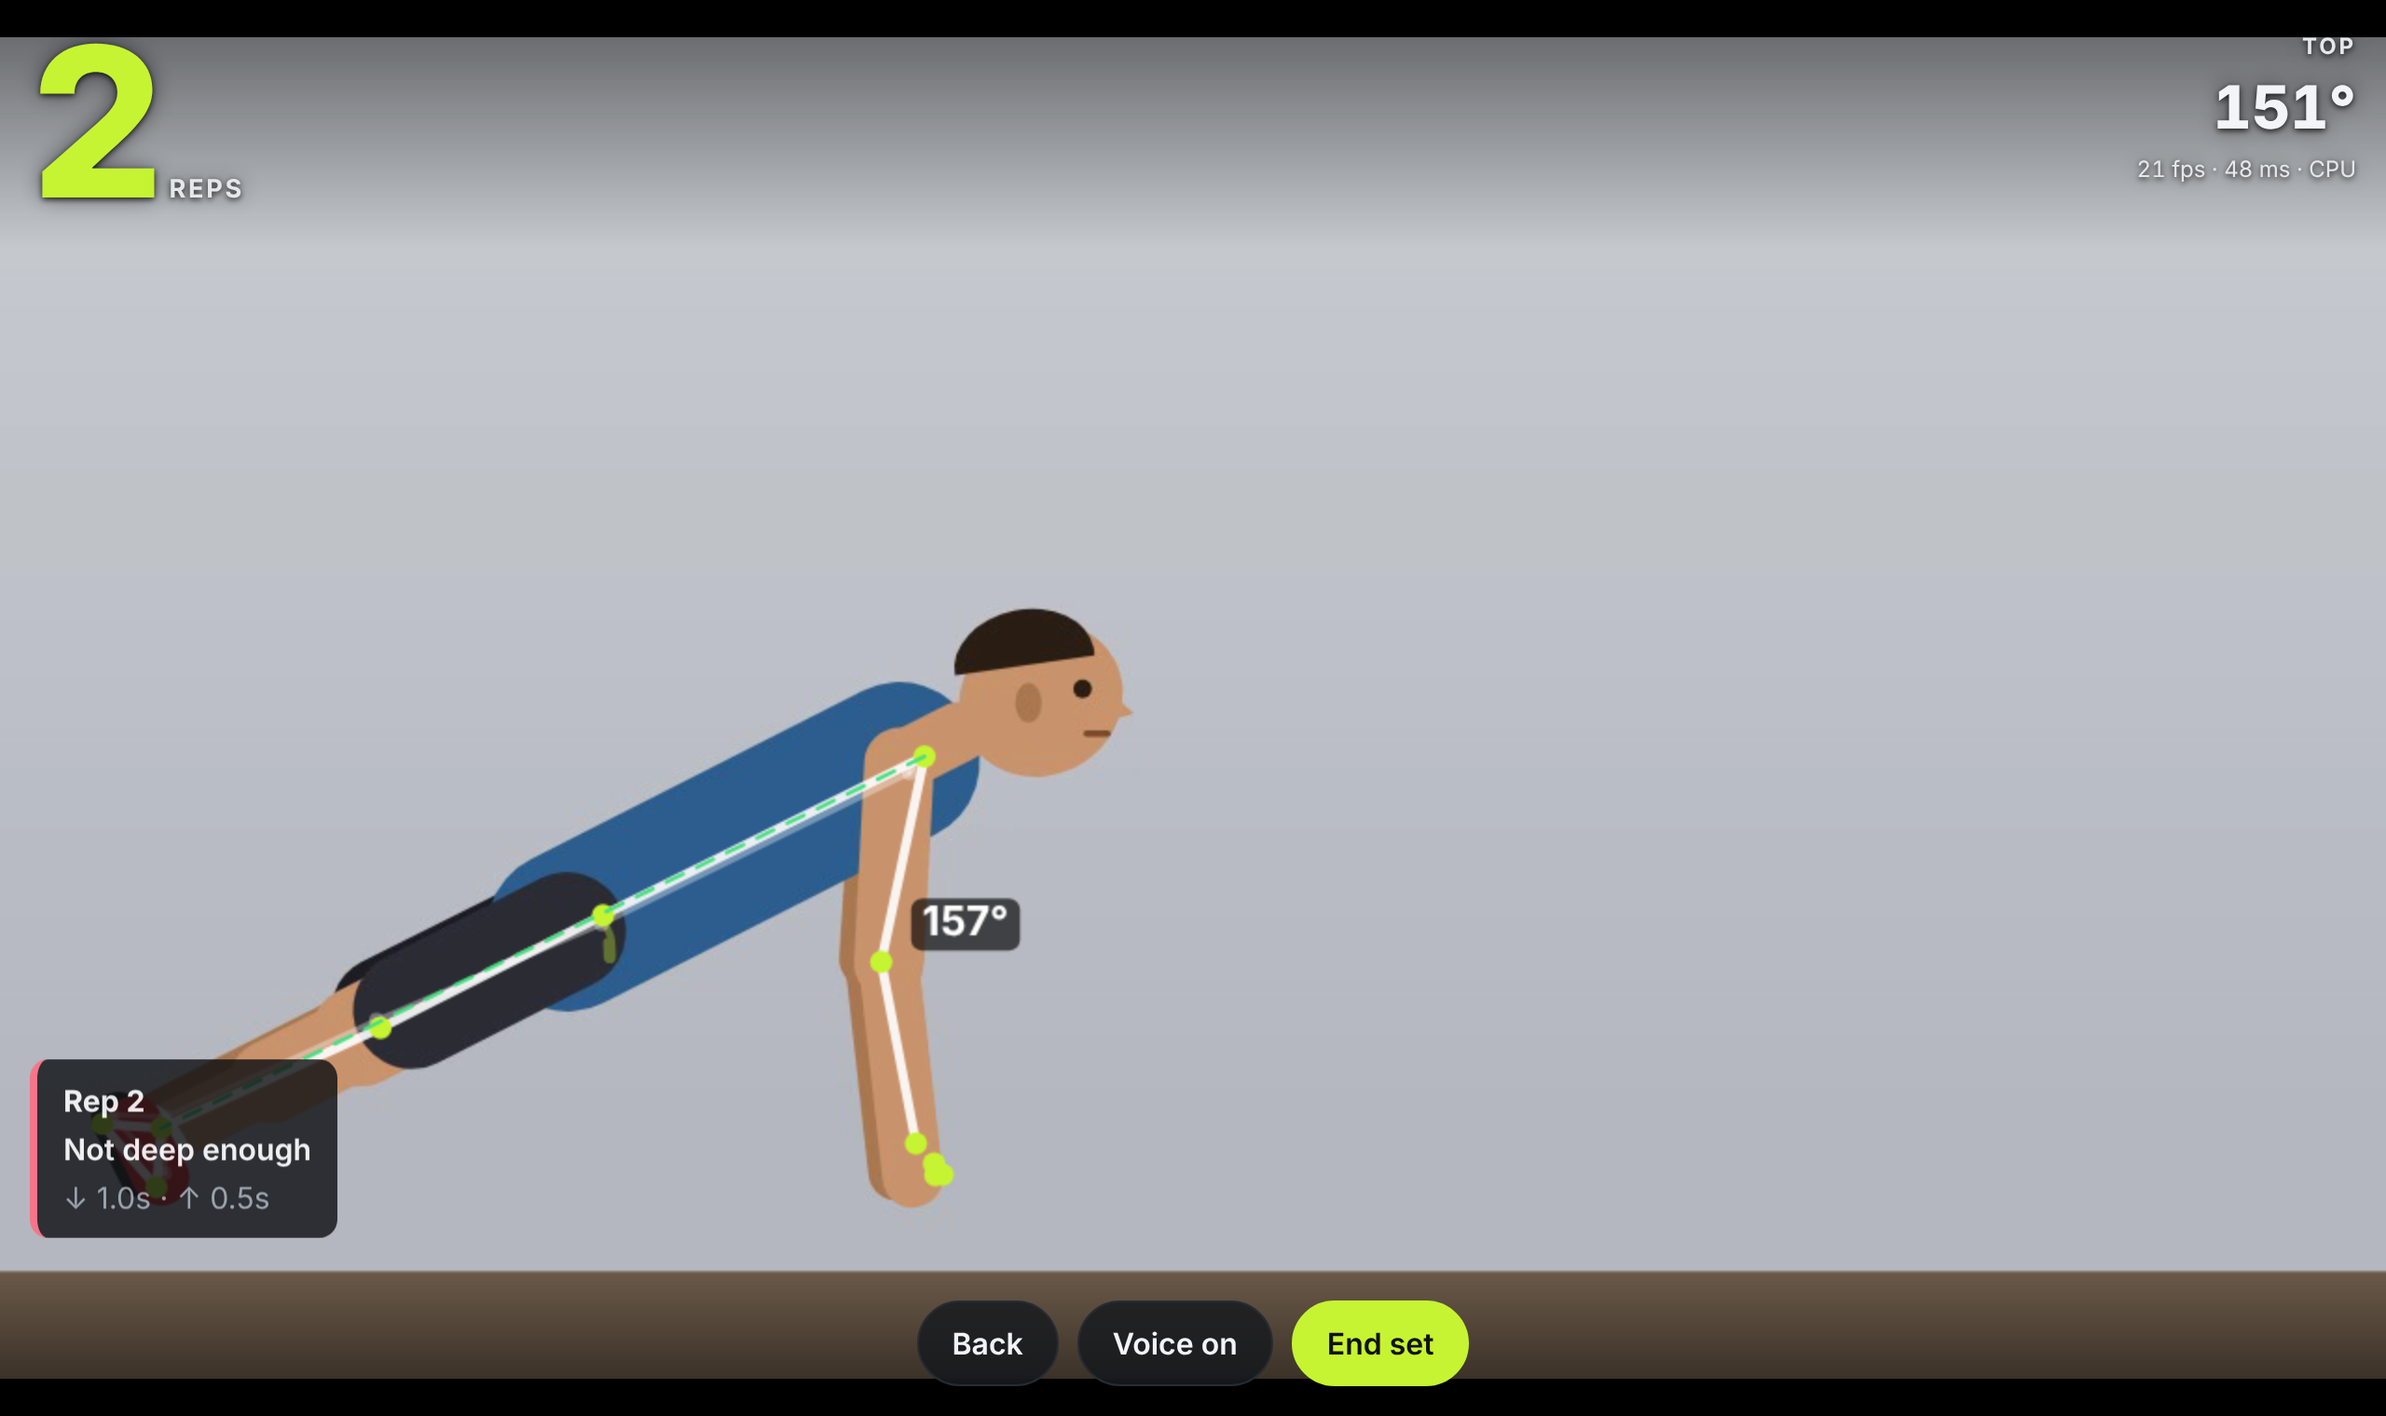
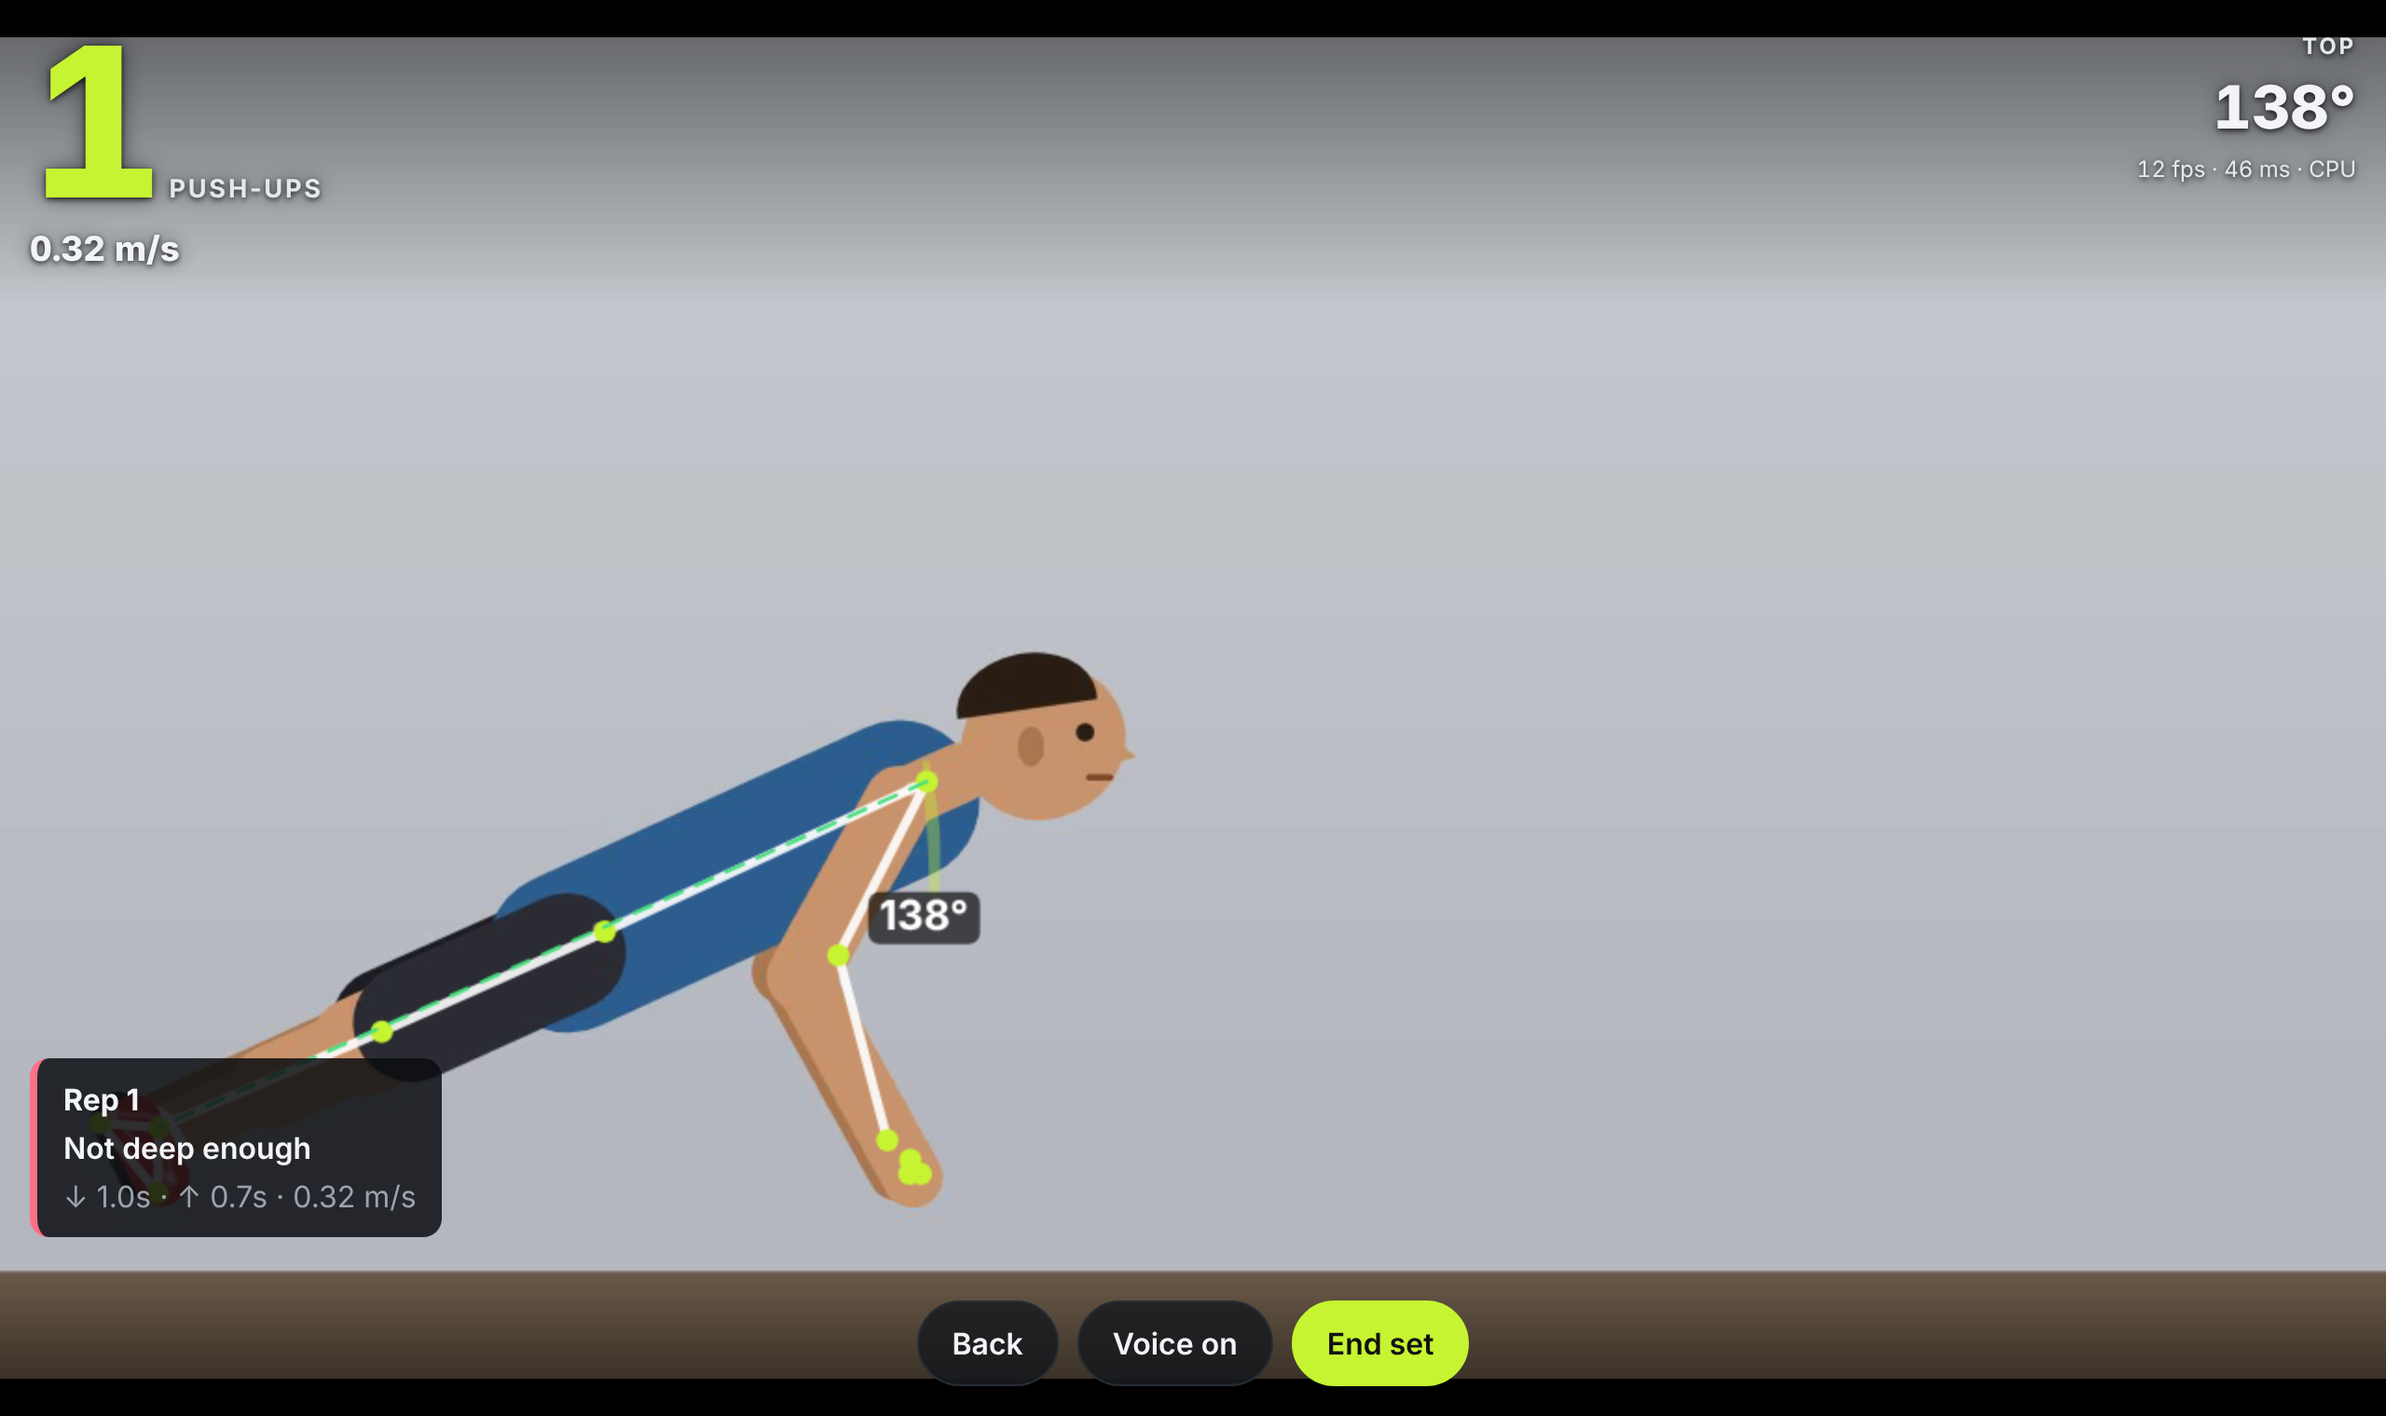
README for v2, fresh screenshots, one-row exercise picker
Claude-Session: https://claude.ai/code/session_01U8Af43sU8umgs554NrshuK

diff --git a/web/src/styles.css b/web/src/styles.css
@@ -32,7 +32,7 @@ h1 { font-size: clamp(2rem, 6vw, 3rem); line-height: 1.05; letter-spacing: -0.03
 .card { background: var(--panel); border: 1px solid var(--line); border-radius: 18px; padding: 20px; margin-top: 28px; }
 .field-label { font-size: 0.8rem; text-transform: uppercase; letter-spacing: 0.08em; color: var(--muted); }
 .seg { display: grid; grid-template-columns: 1fr 1fr; gap: 6px; margin-top: 8px; background: var(--bg); padding: 5px; border-radius: 14px; }
-.seg button { border: 0; background: transparent; padding: 12px; border-radius: 10px; font-weight: 700; cursor: pointer; color: var(--muted); }
+.seg button { white-space: nowrap; border: 0; background: transparent; padding: 12px 6px; border-radius: 10px; font-weight: 700; cursor: pointer; color: var(--muted); }
 .seg button.on { background: var(--accent); color: #111; }
 .tip { color: var(--muted); font-size: 0.92rem; margin: 12px 0 4px; }
 .row { display: flex; flex-wrap: wrap; gap: 14px 24px; margin-top: 14px; }
@@ -79,7 +79,9 @@ tr.bad td:last-child { color: var(--bad); }
 /* v2: exercise picker, history, share, coach */
 .top-row { display: flex; align-items: center; justify-content: space-between; gap: 12px; }
 .small-btn { padding: 7px 14px; font-size: 0.9rem; }
-.seg-grid { grid-template-columns: repeat(auto-fit, minmax(92px, 1fr)); }
+.seg-grid { grid-template-columns: repeat(4, 1fr); }
+@media (min-width: 640px) { .seg-grid { grid-template-columns: repeat(7, 1fr); } }
+.history .seg-grid { grid-template-columns: repeat(auto-fit, minmax(110px, 1fr)); }
 .live-dot { display: inline-block; width: 8px; height: 8px; border-radius: 50%; background: var(--bad); margin-left: 6px; animation: pulse 1.2s infinite; }
 @keyframes pulse { 50% { opacity: 0.3; } }
 .speed { font-weight: 800; font-size: 1.15rem; font-variant-numeric: tabular-nums; margin-top: 4px; }

diff --git a/README.md b/README.md
@@ -1,12 +1,20 @@
-# Spotter — a real-time form coach that runs on your phone
+# Spotter — a real-time AI form coach that runs on your phone
 
-Prop your phone up side-on, lift, and Spotter:
+**[Try it live ↗](https://spotter-gray.vercel.app)** · prop your phone up, lift, and Spotter:
 
-- 🔢 **counts your reps** live and times each one (seconds down / seconds up)
-- ✅ **checks every rep**: squat depth (hip below knee), lockout and torso lean; push-up depth and hips sagging or piking
-- 📈 **traces your bar path** (or hip path) over the video
-- 🔊 **calls out a fix** the moment a rep finishes ("Deeper", "Squeeze your glutes"), or just says the count when the rep is clean
-- 📝 **sums up the set**: which reps were flagged, the shallowest rep against your typical one, and whether you slowed down
+- 🧠 **recognises the exercise** from your first rep: squat, push-up, deadlift, lunge, overhead press or plank
+- 🔢 **counts reps** and times each one (seconds down / seconds up), or times your plank while your body stays straight
+- ✅ **checks every rep**:
+  - squat: depth, lockout, forward lean, and **knees caving in** (filmed from the front)
+  - deadlift: **hips rising before the chest**
+  - press: incomplete lockout and leaning back
+  - push-up and plank: hips sagging or piking
+- ⚡ **measures bar speed** in m/s from the camera alone. When speed drops 20%, it says *"Speed down 22%. About 2 left"*
+- 🔊 **calls out the fix** the moment a rep ends ("Deeper", "Knees out"), or just the count when the rep is clean
+- 🎬 **makes a highlight clip** of the set to share: your reps, a slow-motion freeze-frame of the rep worth a second look, and your stats
+- 📈 **keeps your history** on the device: personal bests, a 14-day chart, and an **estimated 1-rep max** from your bar speed at different weights
+- 🗣 **listens for voice commands** ("end set", "next set", "mute"), so you never touch the phone with chalky hands
+- 🤖 **writes an AI coach note** from the set's numbers (never the video) with Gemini
 
 Pose tracking runs **in the browser on your device** (MediaPipe on the GPU, ~30 FPS on a recent phone). The video is never uploaded.
 
@@ -15,8 +23,8 @@ Pose tracking runs **in the browser on your device** (MediaPipe on the GPU, ~30 
 </p>
 
 <p align="center">
-  <img src="docs/images/setup.png" alt="Setup screen" width="405"/>
-  <img src="docs/images/summary.png" alt="Set summary with per-rep table" width="405"/>
+  <img src="docs/images/summary.png" alt="Set summary: notes, bar speed chart, per-rep table and the share clip" width="405"/>
+  <img src="docs/images/history.png" alt="History: 14-day chart, personal bests and recent sets" width="405"/>
 </p>
 
 > The screenshots use a **drawn test mannequin**, not a real person: it is how CI tests the full pipeline without footage of anyone (see [Testing](#testing)).
@@ -24,28 +32,37 @@ Pose tracking runs **in the browser on your device** (MediaPipe on the GPU, ~30 
 ## How it works
 
 ```
-camera frame ─► MediaPipe Pose Landmarker (GPU, WASM) ─► One Euro smoothing ─► joint angles, hip vs knee
-                                                                                    │
-                         rep state machine: waiting → top → down → up → top ◄───────┘
-                                    │ on each finished rep
-                   depth / lockout / lean / hip checks · tempo · path drift
-                                    │
-                 overlay + spoken cue (same frame) ─► set summary when you stop
+camera frame ─► MediaPipe Pose Landmarker (GPU, WASM) ─► One Euro smoothing ─► side / front view
+                                                                                   │
+           Auto: recognise the exercise from the first full rep, replay buffered frames ◄──┘
+                                   │
+     rep state machine on the exercise's main angle: waiting → top → down → up → top
+                                   │ on each finished rep
+   form checks · tempo · bar path · bar speed (m/s) · speed loss · "stop" cue · reps-left estimate
+                                   │
+     overlay + spoken cue (same frame) · on-device recording ─► summary, highlight clip, history
 ```
 
-- **Pose:** [MediaPipe Pose Landmarker](https://ai.google.dev/edge/mediapipe/solutions/vision/pose_landmarker) (BlazePose, 33 landmarks), Lite or Full model, GPU delegate with a CPU fallback. The WASM runtime and models are served by the app itself and cached for offline use (PWA).
-- **Smoothing:** a [One Euro filter](https://gery.casiez.net/1euro/) per coordinate: steady when you are still, little lag when you move.
-- **Side choice:** uses the side of the body facing the camera, by landmark visibility, and only switches when the other side is clearly better.
-- **Rep counting:** a state machine on the main joint angle (knee for squats, elbow for push-ups) with hysteresis, so small dips and bounces at the bottom are not counted as reps.
-- **Form checks** (`web/src/core/exercises.ts`):
-  - Squat depth: hip lower than the knee at the deepest point, measured relative to thigh length.
-  - Lockout: the joint gets back to near-straight before the next rep, so this flag lands when the next rep starts.
-  - Squat torso lean: more than 60° from vertical.
-  - Push-ups: elbow angle at the bottom, and the hip's distance above or below the shoulder-to-ankle line.
-- **Centimetres:** estimated from your height and your measured leg length (thigh + shin ≈ 49% of height).
-- **Voice:** the browser's built-in speech, so cues have no network delay.
+- **Pose:** [MediaPipe Pose Landmarker](https://ai.google.dev/edge/mediapipe/solutions/vision/pose_landmarker) (BlazePose, 33 landmarks), Lite or Full model, GPU delegate with a CPU fallback. It's served by the app and cached for offline use (PWA).
+- **Views:** the analyzer detects a front or side view from shoulder width against torso length. From the front, knee angles can't be read, so squat depth comes from how much the thigh shortens on screen, and the knee-to-ankle width ratio catches knees caving in.
+- **Rep counting:** a state machine with hysteresis on each exercise's main angle. The press is counted from the bottom (180° − elbow), and small dips and bounces don't count as reps.
+- **Bar speed:** vertical travel of the tracked point (bar, hips or shoulders) over the lifting half of each rep. Pixels are turned into metres from your height and measured leg length (thigh + shin ≈ 49% of height). Reps left = a straight-line fit of the last reps' speeds, extended down to the slowest speed a rep usually succeeds at (e.g. 0.3 m/s for squats).
+- **1-rep max:** a load–velocity line through your sets at different bar weights, read off at that slowest speed.
+- **Highlight clip:** the set is recorded on-device (canvas + MediaRecorder). The clip plays the recording once from start to end, slowing down for the chosen rep and freezing at its bottom. It never seeks, because browser-made WebM files often can't seek reliably.
+- **AI coach:** `api/coach.ts` is a Vercel Function. It validates the payload, keeps only known numeric fields, rate-limits each caller, and asks Gemini for three short lines.
 
-All of the analysis lives in `web/src/core/`: plain TypeScript with no browser APIs, so the exact same code runs live, in unit tests and in evaluation scripts.
+All analysis lives in `web/src/core/`: plain TypeScript with no browser APIs. The exact same code runs live, in unit tests, on the labelling page and in the eval.
+
+## Measuring accuracy and training a model
+
+- **`/label.html`:** analyze a clip frame by frame (deterministic), fix the reps and flags Spotter got wrong, and export labels with the per-frame landmarks.
+- **`web/scripts/run-eval.mjs`:** re-scores every labelled clip and writes [`eval/report.md`](eval/report.md):
+  - rep recall and precision, and the share of clips with the exact rep count;
+  - per-flag precision, recall and F1;
+  - per-frame latency.
+- **[`ml/`](ml/):** turns labelled reps into angle sequences, trains a small **PyTorch** 1-D CNN with a train/test split by clip, and exports it to **ONNX** for the browser. The model only ships where it beats the rules on held-out clips.
+
+**Status:** the tooling is built and tested end to end. The current report is a smoke test on the mannequin clip. Real-footage numbers come next.
 
 ## Run it
 
@@ -55,36 +72,30 @@ npm install
 npm run dev        # downloads the pose models once, then serves on http://localhost:5173
 ```
 
-On a phone, open the dev server's network URL over HTTPS (browsers only allow the camera on HTTPS or localhost), or deploy it.
-**Deploy:** import the repo into Vercel; `vercel.json` builds the `web/` app.
+Browsers only allow the camera on HTTPS or localhost.
+- **Deploy:** import the repo into Vercel; `vercel.json` builds `web/` and `api/`.
+- **AI coach note:** set `GEMINI_API_KEY` (and optionally `GEMINI_MODEL`) in the Vercel project's environment variables.
 
 ## Testing
 
 ```bash
-cd web
-npm test           # unit tests: analyzer, geometry, filter (synthetic poses with known answers)
-npm run e2e        # Playwright: the real app + real MediaPipe model in headless Chromium
+cd web && npm test     # 68 unit tests
+cd web && npm run e2e  # 4 Playwright tests: the real app and pose model in headless Chromium
+pytest ml              # feature extraction; with PyTorch installed, also train → ONNX round trip
 ```
 
-- **Unit tests** feed the analyzer synthetic side-view skeletons where the true answer is known:
-  - exact rep counts, shallow reps, missed lockouts and tempo;
-  - small dips that must not count;
-  - 15 FPS input;
-  - noisy landmarks with 5% of frames dropped.
-- **End-to-end tests** run the full pipeline (video → MediaPipe → analyzer → UI) on a drawn mannequin doing 3 push-ups:
-  - once as an uploaded video;
-  - once through Chromium's fake camera.
+- **Unit tests** feed the analyzer synthetic skeletons with known answers:
+  - every exercise, both camera views and each form flag;
+  - bar speed against the true hip speed, the stop cue firing exactly once, and the reps-left fit;
+  - auto-detect for every exercise, with the first rep still counted;
+  - history and 1-rep-max maths, the eval metrics, voice-command parsing;
+  - the AI coach endpoint's validation and rate limit.
+- **Browser tests** run the full pipeline on a drawn mannequin doing 3 push-ups:
+  - upload, auto-detect, highlight clip and history;
+  - the fake camera;
+  - the labelling page.
+- **CI** runs all of it, plus PyTorch training and the ONNX export check.
 
-  Both must count 3 reps. `scripts/make-mannequin-video.mjs` renders the clip.
-
-**What the mannequin does not prove:** accuracy on real people. MediaPipe tracks the drawn figure's arms well, but its elbow angles are about 20° off, and its legs in a deep squat are unreliable. Accuracy will be measured on labelled real footage (next milestone).
-
-## Status and roadmap
-
-- [x] **1. Core:** camera and video input, pose tracking, smoothing, rep counting and form checks for squats and push-ups, voice cues, set summary, PWA, unit and end-to-end tests
-- [ ] **2. Real-footage eval:** labelled side-view clips; rep-count accuracy, depth precision and recall, per-frame latency on phones
-- [ ] **3. Learned fault model:** a small temporal model (PyTorch → ONNX Runtime Web) over each rep's landmarks, kept only if it beats the rules above
-- [ ] **4. Bar tracking:** a small detector for the barbell plate, replacing the wrist-based bar path
-- [ ] **5. Set summary in words:** the per-rep numbers (never video) sent to an LLM for a short coaching note; history across sessions
+**What the mannequin doesn't prove:** accuracy on real people. That's what the labelling page and the eval are for.
 
 Spotter is a training aid, not medical advice.
